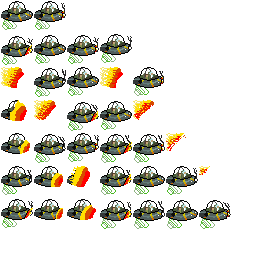
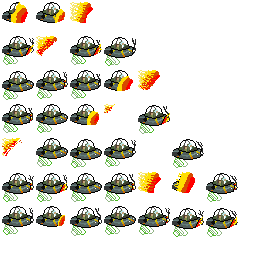
pixelated background, tried to implement 3 layer saucer , but all sprites are different sizes..too much work fixed small bug , invincibility sounds playing even if game is paused aw and a newnew cthulhu in game !

diff --git a/core/src/com/maxnobr/game/Saucer.kt b/core/src/com/maxnobr/game/Saucer.kt
@@ -29,7 +29,6 @@ class Saucer(private val game: CthulhuGame) : GameObject {
 
     private lateinit var blastSd:Sound
     private lateinit var invinsSd:Music
-    //private var invinsSdID = 0.toLong()
 
     private lateinit var currentFrame: TextureRegion
     private lateinit var sprite: Sprite
@@ -77,7 +76,7 @@ class Saucer(private val game: CthulhuGame) : GameObject {
     fun jump() {
         if(!isInvinsible) {
             body.linearVelocity = Vector2(0f, jump)
-            blastSd.play(.5f)
+            blastSd.play(.3f)
         }
     }
 
@@ -96,7 +95,7 @@ class Saucer(private val game: CthulhuGame) : GameObject {
         blastSd = Gdx.audio.newSound(Gdx.files.internal("257232__javierzumer__retro-shot-blaster.wav"))
         invinsSd = Gdx.audio.newMusic(Gdx.files.internal("328011__astrand__retro-blaster-fire.wav"))
         invinsSd.volume = .4f
-        invinsSd.setLooping(true)
+        invinsSd.isLooping = true
 
         atlas = TextureAtlas(Gdx.files.internal("Saucer.atlas"))
         // Frames that compose the animation "running"
@@ -156,8 +155,6 @@ class Saucer(private val game: CthulhuGame) : GameObject {
                 body.isActive = true
                 body.linearVelocity = Vector2()
                 invinsSd.stop()
-                //invinsSd.play()
-                //invinsSd.setLooping(invinsSdID,false)
             }
         }
 
@@ -189,6 +186,10 @@ class Saucer(private val game: CthulhuGame) : GameObject {
 
         if(CthulhuGame.gameState == CthulhuGame.RUN && health <= 0 && crashAnimation?.isAnimationFinished(elapsed_time)!!)
             game.changeGameState(CthulhuGame.GAMEOVER)
+
+
+        if(invinsSd.isPlaying && CthulhuGame.gameState != CthulhuGame.RUN)
+            invinsSd.stop()
         //batch.draw(currentFrame, originX, originY, width, height)
     }
 

diff --git a/core/src/com/maxnobr/game/Cthulhu.kt b/core/src/com/maxnobr/game/Cthulhu.kt
@@ -19,10 +19,10 @@ class Cthulhu :GameObject{
     private var elapsed_time = 0f
 
     private var scaleX = .7f
-    private var scaleY = .7f
+    private var scaleY = .9f
 
     override fun create(batch: SpriteBatch, camera: Camera, world: World) {
-        atlas = TextureAtlas(Gdx.files.internal("Cthulhu.atlas"))
+        atlas = TextureAtlas(Gdx.files.internal("NewNewCthulhu.atlas"))
         // Frames that compose the animation "running"
         val flyingFrames = atlas.findRegions("Cthulhu")
         flyingAnimation = Animation(FRAME_DURATION, flyingFrames, Animation.PlayMode.LOOP)
@@ -30,9 +30,9 @@ class Cthulhu :GameObject{
         val firstTexture = flyingFrames?.first()
         if(firstTexture != null) {
             sprite = Sprite(firstTexture)
-            sprite.setOrigin(0f,0f)
+            sprite.setOrigin(sprite.width/2,sprite.height/2)
             sprite.setScale(scaleX,scaleY)
-            sprite.setCenter(camera.viewportWidth/5,camera.viewportHeight/4*3)
+            sprite.setCenter(-7f,camera.viewportHeight*0.6f)
         }
     }
 

diff --git a/core/src/com/maxnobr/game/CthulhuGame.kt b/core/src/com/maxnobr/game/CthulhuGame.kt
@@ -3,7 +3,6 @@ package com.maxnobr.game
 import com.badlogic.gdx.ApplicationAdapter
 import com.badlogic.gdx.Gdx
 import com.badlogic.gdx.audio.Music
-import com.badlogic.gdx.files.FileHandle
 import com.badlogic.gdx.graphics.GL20
 import com.badlogic.gdx.graphics.OrthographicCamera
 import com.badlogic.gdx.graphics.g2d.SpriteBatch
@@ -76,6 +75,7 @@ class CthulhuGame : ApplicationAdapter() {
         LevelBorders(this,world,camera)
 
         persistence = Persistence()
+        //delete(SINGLEGAMENAME)
 
         changeGameState(START)
     }
@@ -153,7 +153,8 @@ class CthulhuGame : ApplicationAdapter() {
 
     private fun reset() {
         debug = false
-        (list["obstacles"] as Obstacles).reset()
+        if (list.containsKey("obstacles"))
+            (list["obstacles"] as Obstacles).reset()
         (list["player"] as Saucer).setPosition(Vector3(camera.viewportWidth/2,camera.viewportHeight/2,0f))
         (list["player"] as Saucer).reset()
     }

diff --git a/core/src/com/maxnobr/game/level/Obstacles.kt b/core/src/com/maxnobr/game/level/Obstacles.kt
@@ -19,11 +19,13 @@ class Obstacles : GameObject {
     private lateinit var prefab:ObstaclePrefab
     private val rnd = Random()
 
-    private var gatePadding = 4f
+    private var gatePadding = 25f
     private var speed = -.3f
     private val bottomName = "bottomV2"
     private val topName = "topV2"
     private var gap = 7f
+
+    //private var screenHeight = 480f
 
     private var queue:ArrayDeque<Gate> = ArrayDeque()
 
@@ -31,8 +33,9 @@ class Obstacles : GameObject {
         atlas = TextureAtlas(Gdx.files.internal("Obstacles.atlas"))
         physicsBodies = PhysicsShapeCache("Obstacles.xml")
         prefab = ObstaclePrefab(atlas!!,physicsBodies,world)
-        gatePadding = camera.viewportWidth/3
-        gap = camera.viewportHeight/7
+        //gatePadding = camera.viewportWidth/3
+        //gap = camera.viewportHeight/gap
+        //screenHeight = camera.viewportHeight
     }
 
     override fun preRender(camera: Camera) {

diff --git a/core/src/com/maxnobr/game/Background.kt b/core/src/com/maxnobr/game/Background.kt
@@ -21,11 +21,11 @@ class Background : GameObject  {
     private var speed1 = -7f
 
     override fun create(batch: SpriteBatch,camera: Camera,world: World) {
-        atlas = TextureAtlas(Gdx.files.internal("Cave.atlas"))
-        bg3 = Sprite(atlas?.findRegions("cave")?.get(1))
-        bg2 = Sprite(atlas?.findRegions("cave")?.get(2))
-        bg1 = Sprite(atlas?.findRegions("cave")?.get(3))
-        bg0 = Sprite(atlas?.findRegions("cave")?.get(0))
+        atlas = TextureAtlas(Gdx.files.internal("TinyCave.atlas"))
+        bg3 = Sprite(atlas?.findRegions("TinyCave")?.get(1))
+        bg2 = Sprite(atlas?.findRegions("TinyCave")?.get(2))
+        bg1 = Sprite(atlas?.findRegions("TinyCave")?.get(3))
+        bg0 = Sprite(atlas?.findRegions("TinyCave")?.get(0))
 
         val scaleX = camera.viewportWidth/bg3.regionWidth.toFloat()
         val scaleY = camera.viewportHeight/bg3.regionHeight.toFloat()

diff --git a/core/src/com/maxnobr/game/Persistence.kt b/core/src/com/maxnobr/game/Persistence.kt
@@ -1,9 +1,7 @@
 package com.maxnobr.game
 
 import com.badlogic.gdx.Gdx
-import com.badlogic.gdx.files.FileHandle
 import com.badlogic.gdx.math.Vector2
-import com.maxnobr.game.level.Obstacles
 import java.util.*
 import kotlin.collections.HashMap
 import kotlin.concurrent.thread

diff --git a/android/src/com/maxnobr/game/AndroidLauncher.java b/android/src/com/maxnobr/game/AndroidLauncher.java
@@ -11,6 +11,10 @@ public class AndroidLauncher extends AndroidApplication {
 		super.onCreate(savedInstanceState);
 		AndroidApplicationConfiguration config = new AndroidApplicationConfiguration();
 
-		initialize(new CthulhuGame(), config);
+		com.badlogic.gdx.ApplicationListener game = new CthulhuGame();
+		initialize(game, config);
 	}
+}
+
+interface GameInterface extends com.badlogic.gdx.ApplicationListener{
 }
